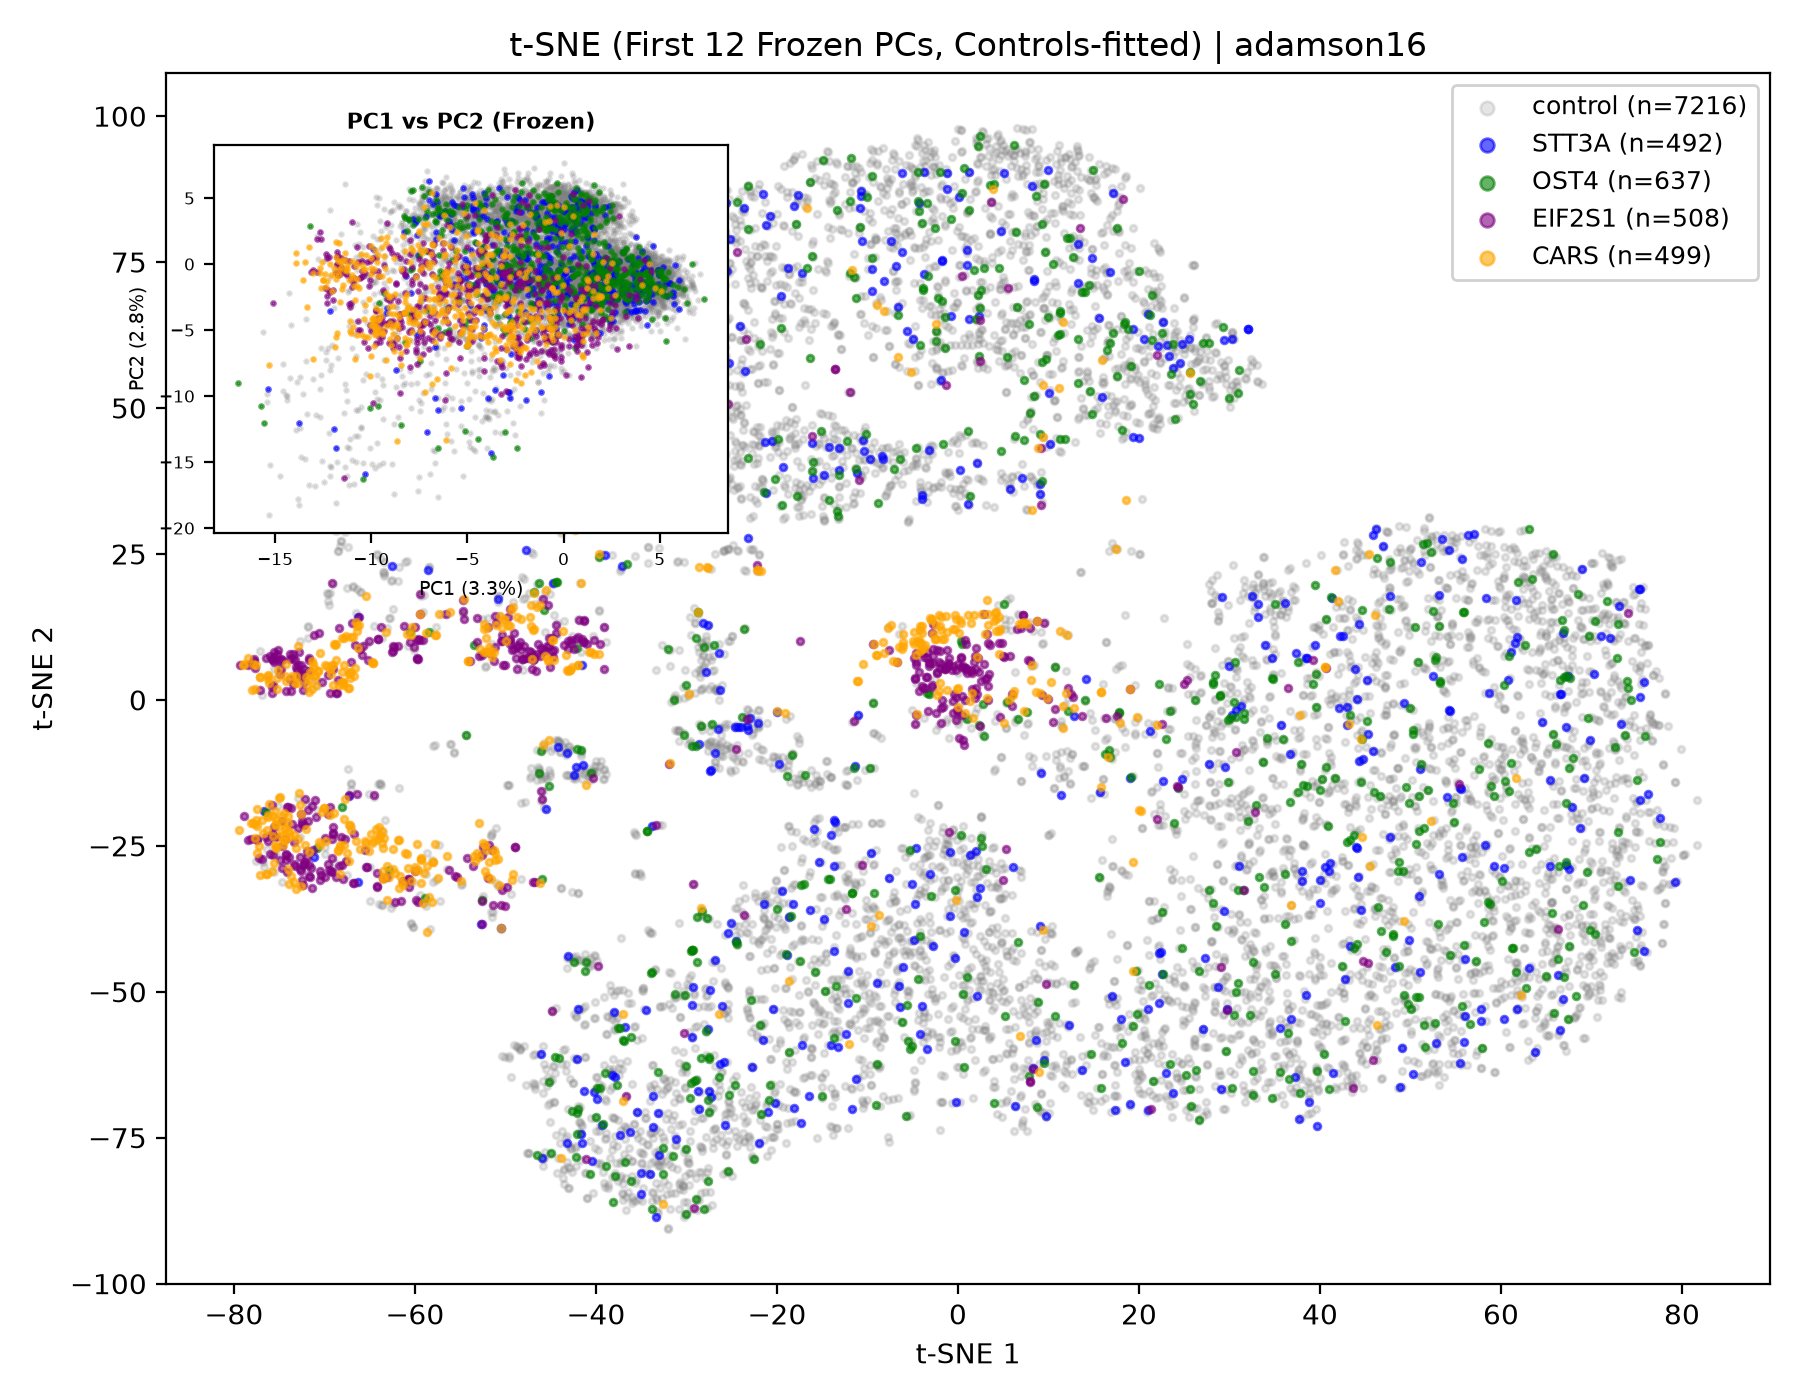
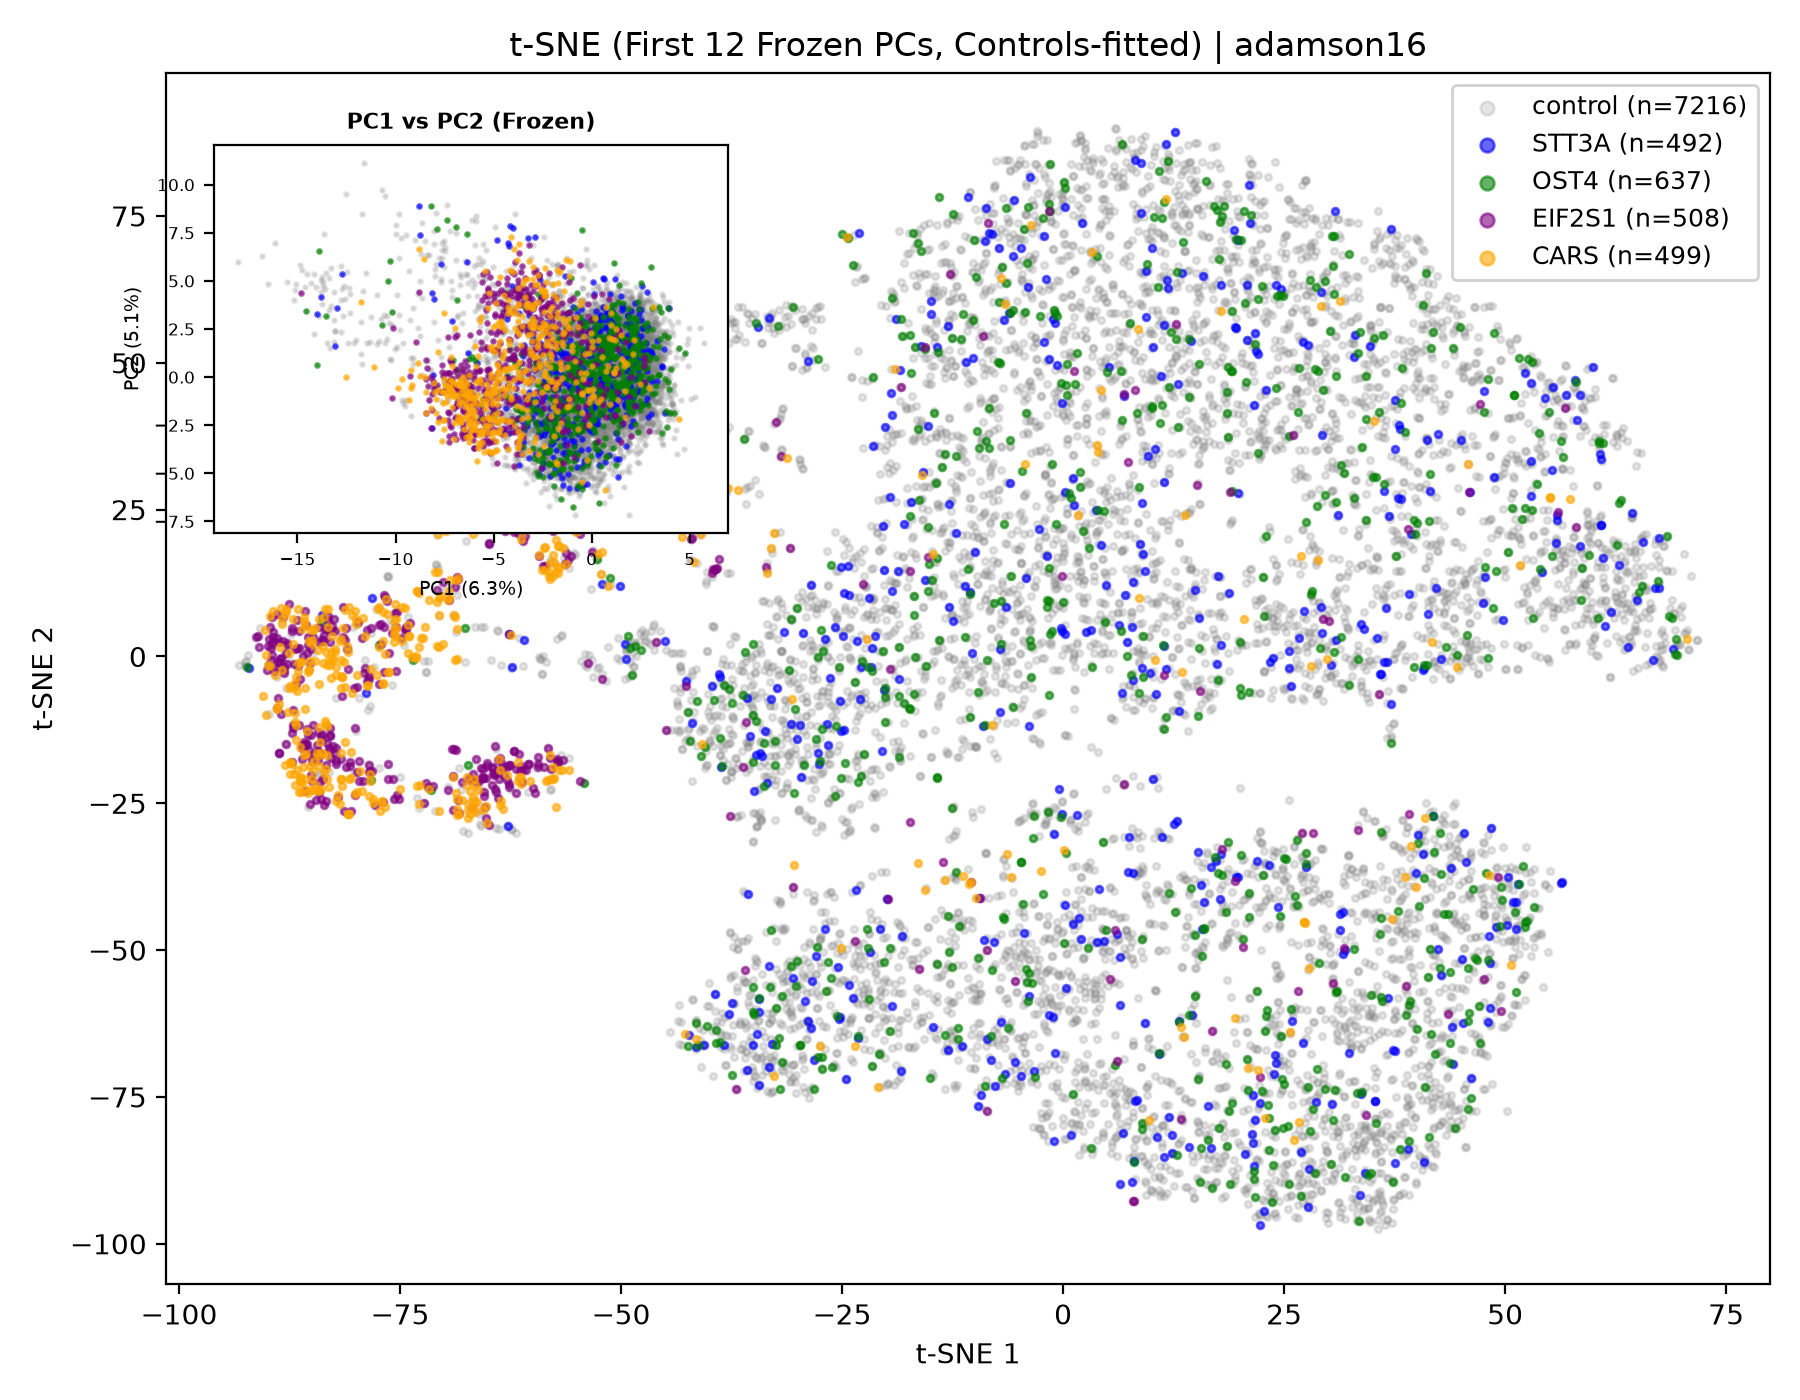
Add HVGs

diff --git a/visualisations/replogle22/frozen-control-pcs/tsne-perturbations.py b/visualisations/replogle22/frozen-control-pcs/tsne-perturbations.py
@@ -26,6 +26,13 @@ print(f"Loading dataset from: {DATA_PATH}")
 adata_full = ad.read_h5ad(DATA_PATH)
 print(f"Full dataset shape: {adata_full.shape}")
 
+# 1. Compute Highly Variable Genes globally on ALL cells in the dataset
+print("Computing Global Highly Variable Genes (HVGs) on all cells...")
+sc.pp.highly_variable_genes(adata_full, n_top_genes=2000, flavor="seurat")
+hvg_mask = adata_full.var["highly_variable"].values
+print(f"Number of global HVGs selected: {hvg_mask.sum()}")
+adata_full = adata_full[:, hvg_mask].copy()
+
 # Create masks for controls and specified perturbations
 ctrl_mask = (adata_full.obs["perturbation"] == CONTROL_LABEL).values
 pert_mask = adata_full.obs["perturbation"].isin(PERTURBATIONS).values
@@ -120,7 +127,7 @@ ax_inset.tick_params(labelsize=6)
 
 fig.tight_layout()
 
-tsne_out_path = OUT_DIR / f"tsne_12pcs_frozen_pca_multi_perts.png"
+tsne_out_path = OUT_DIR / f"tsne_12pcs_frozen_pca_multi_perts_hvg.png"
 fig.savefig(tsne_out_path, dpi=200)
 plt.close(fig)
 print("Saved t-SNE plot:", tsne_out_path)

diff --git a/visualisations/adamson/frozen-control-pcs/tsne-perturbations.py b/visualisations/adamson/frozen-control-pcs/tsne-perturbations.py
@@ -26,6 +26,13 @@ print(f"Loading dataset from: {DATA_PATH}")
 adata_full = ad.read_h5ad(DATA_PATH)
 print(f"Full dataset shape: {adata_full.shape}")
 
+# 1. Compute Highly Variable Genes globally on ALL cells in the dataset
+print("Computing Global Highly Variable Genes (HVGs) on all cells...")
+sc.pp.highly_variable_genes(adata_full, n_top_genes=2000, flavor="seurat")
+hvg_mask = adata_full.var["highly_variable"].values
+print(f"Number of global HVGs selected: {hvg_mask.sum()}")
+adata_full = adata_full[:, hvg_mask].copy()
+
 # Create masks for controls and specified perturbations
 ctrl_mask = (adata_full.obs["perturbation"] == CONTROL_LABEL).values
 pert_mask = adata_full.obs["perturbation"].isin(PERTURBATIONS).values

diff --git a/visualisations/adamson/frozen-control-pcs/tsne-control-only.py b/visualisations/adamson/frozen-control-pcs/tsne-control-only.py
@@ -24,6 +24,13 @@ print(f"Loading dataset from: {DATA_PATH}")
 adata_full = ad.read_h5ad(DATA_PATH)
 print(f"Full dataset shape: {adata_full.shape}")
 
+# 1. Compute Highly Variable Genes globally on ALL cells in the dataset
+print("Computing Global Highly Variable Genes (HVGs) on all cells...")
+sc.pp.highly_variable_genes(adata_full, n_top_genes=2000, flavor="seurat")
+hvg_mask = adata_full.var["highly_variable"].values
+print(f"Number of global HVGs selected: {hvg_mask.sum()}")
+adata_full = adata_full[:, hvg_mask].copy()
+
 # Create mask for control cells only
 ctrl_mask = (adata_full.obs["perturbation"] == CONTROL_LABEL).values
 n_ctrl = ctrl_mask.sum()
